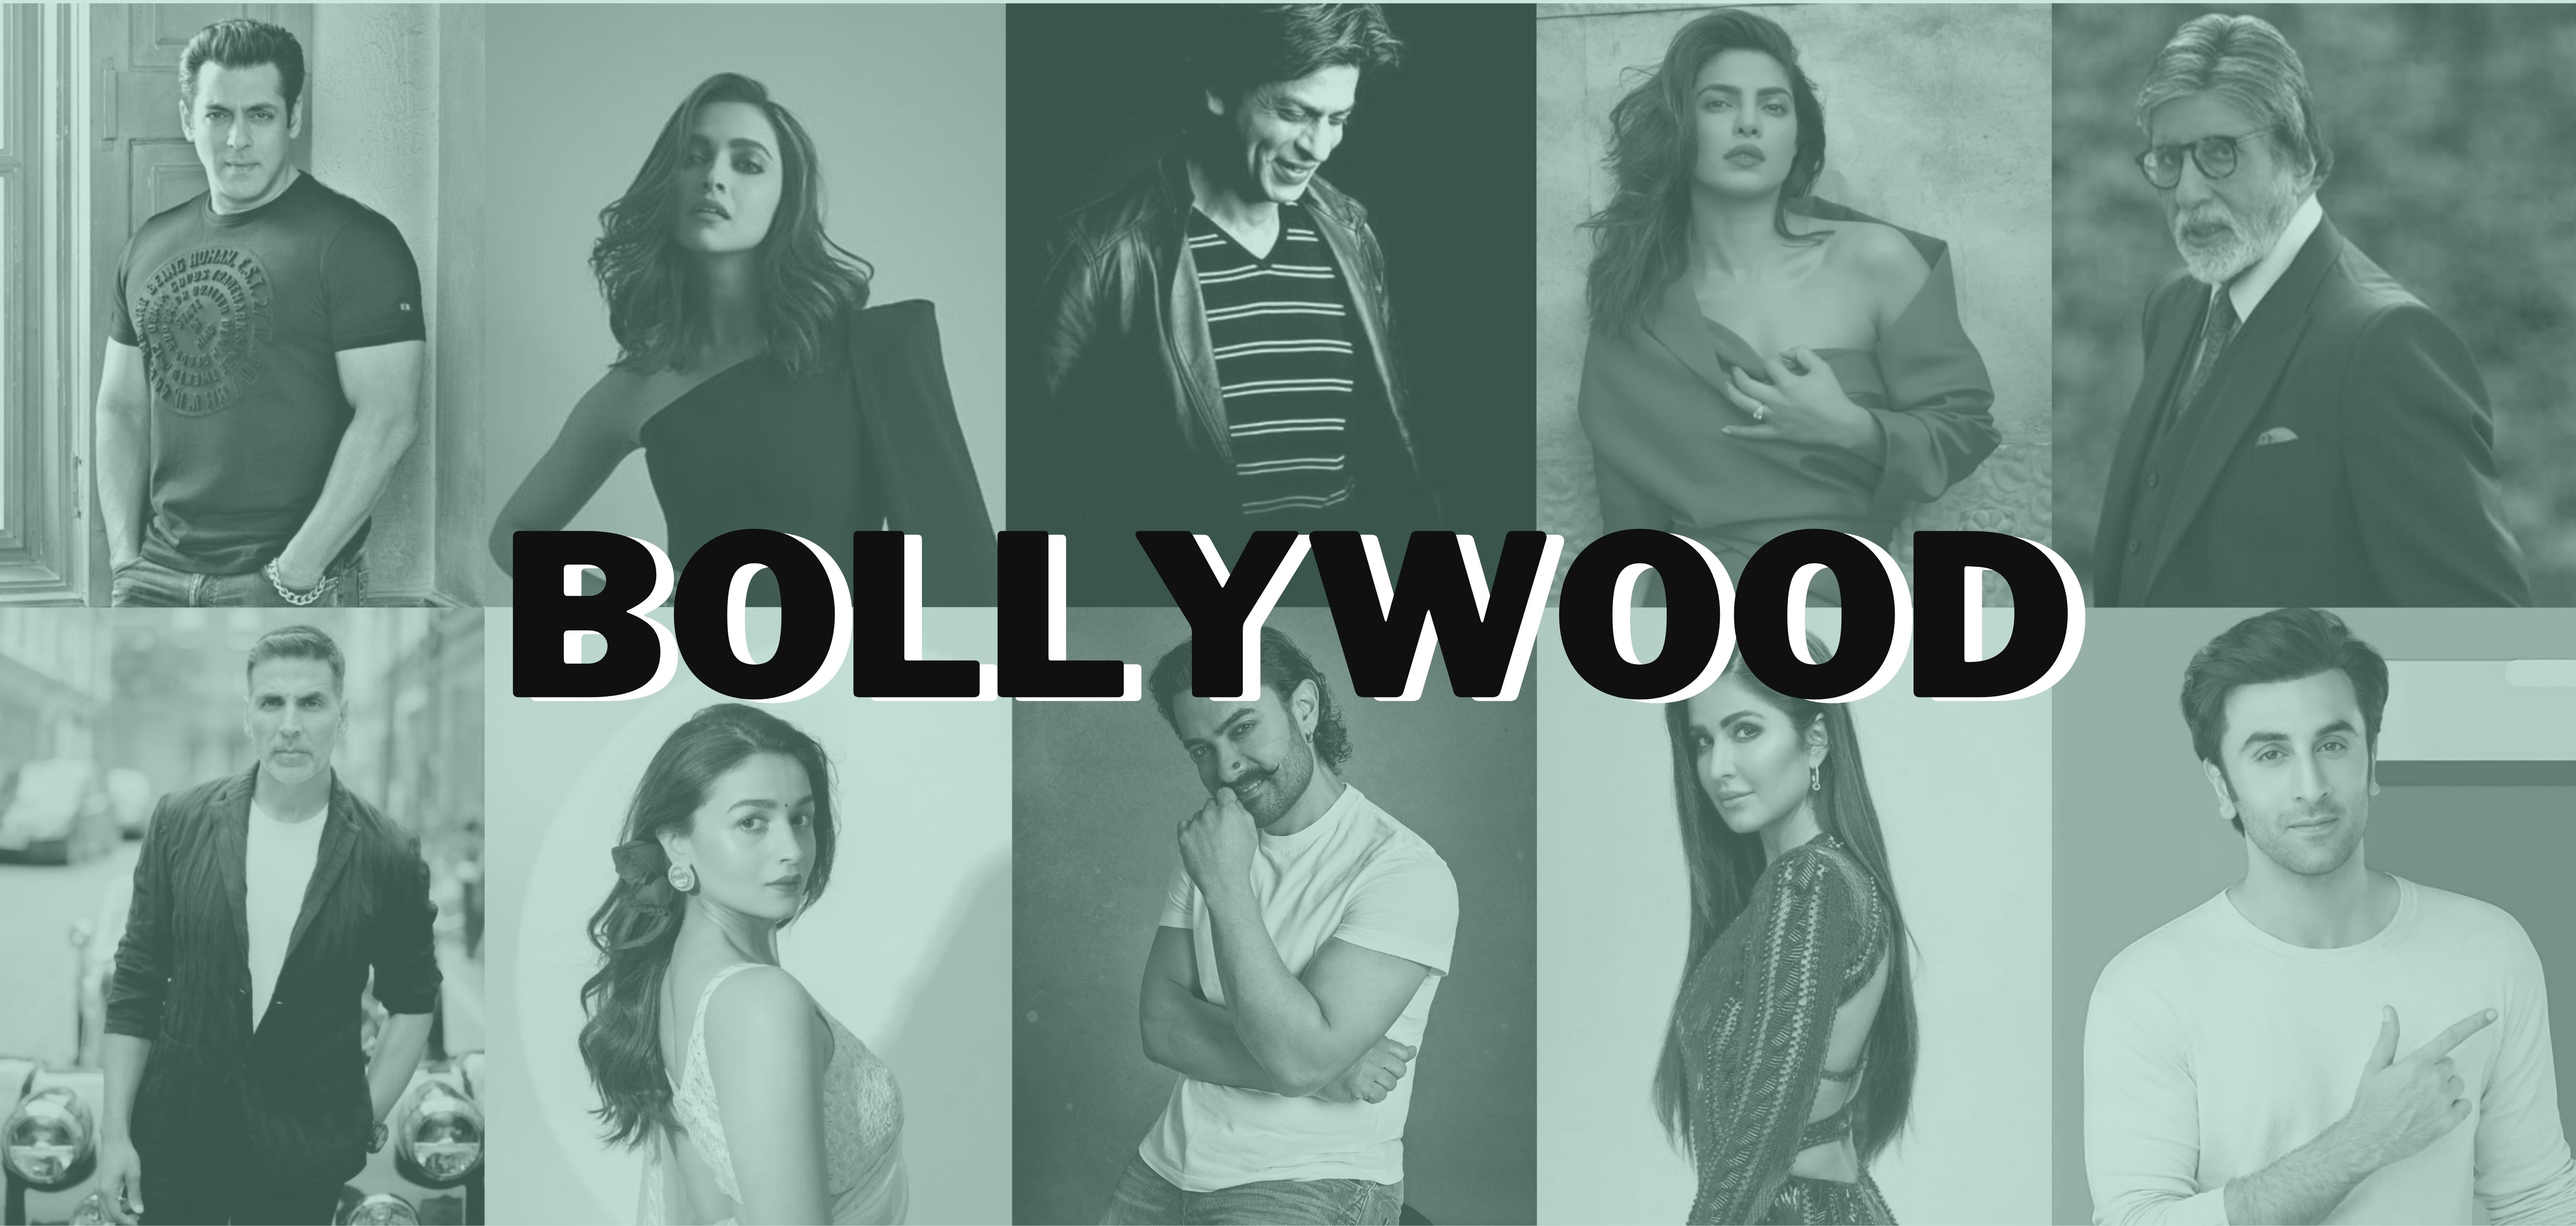
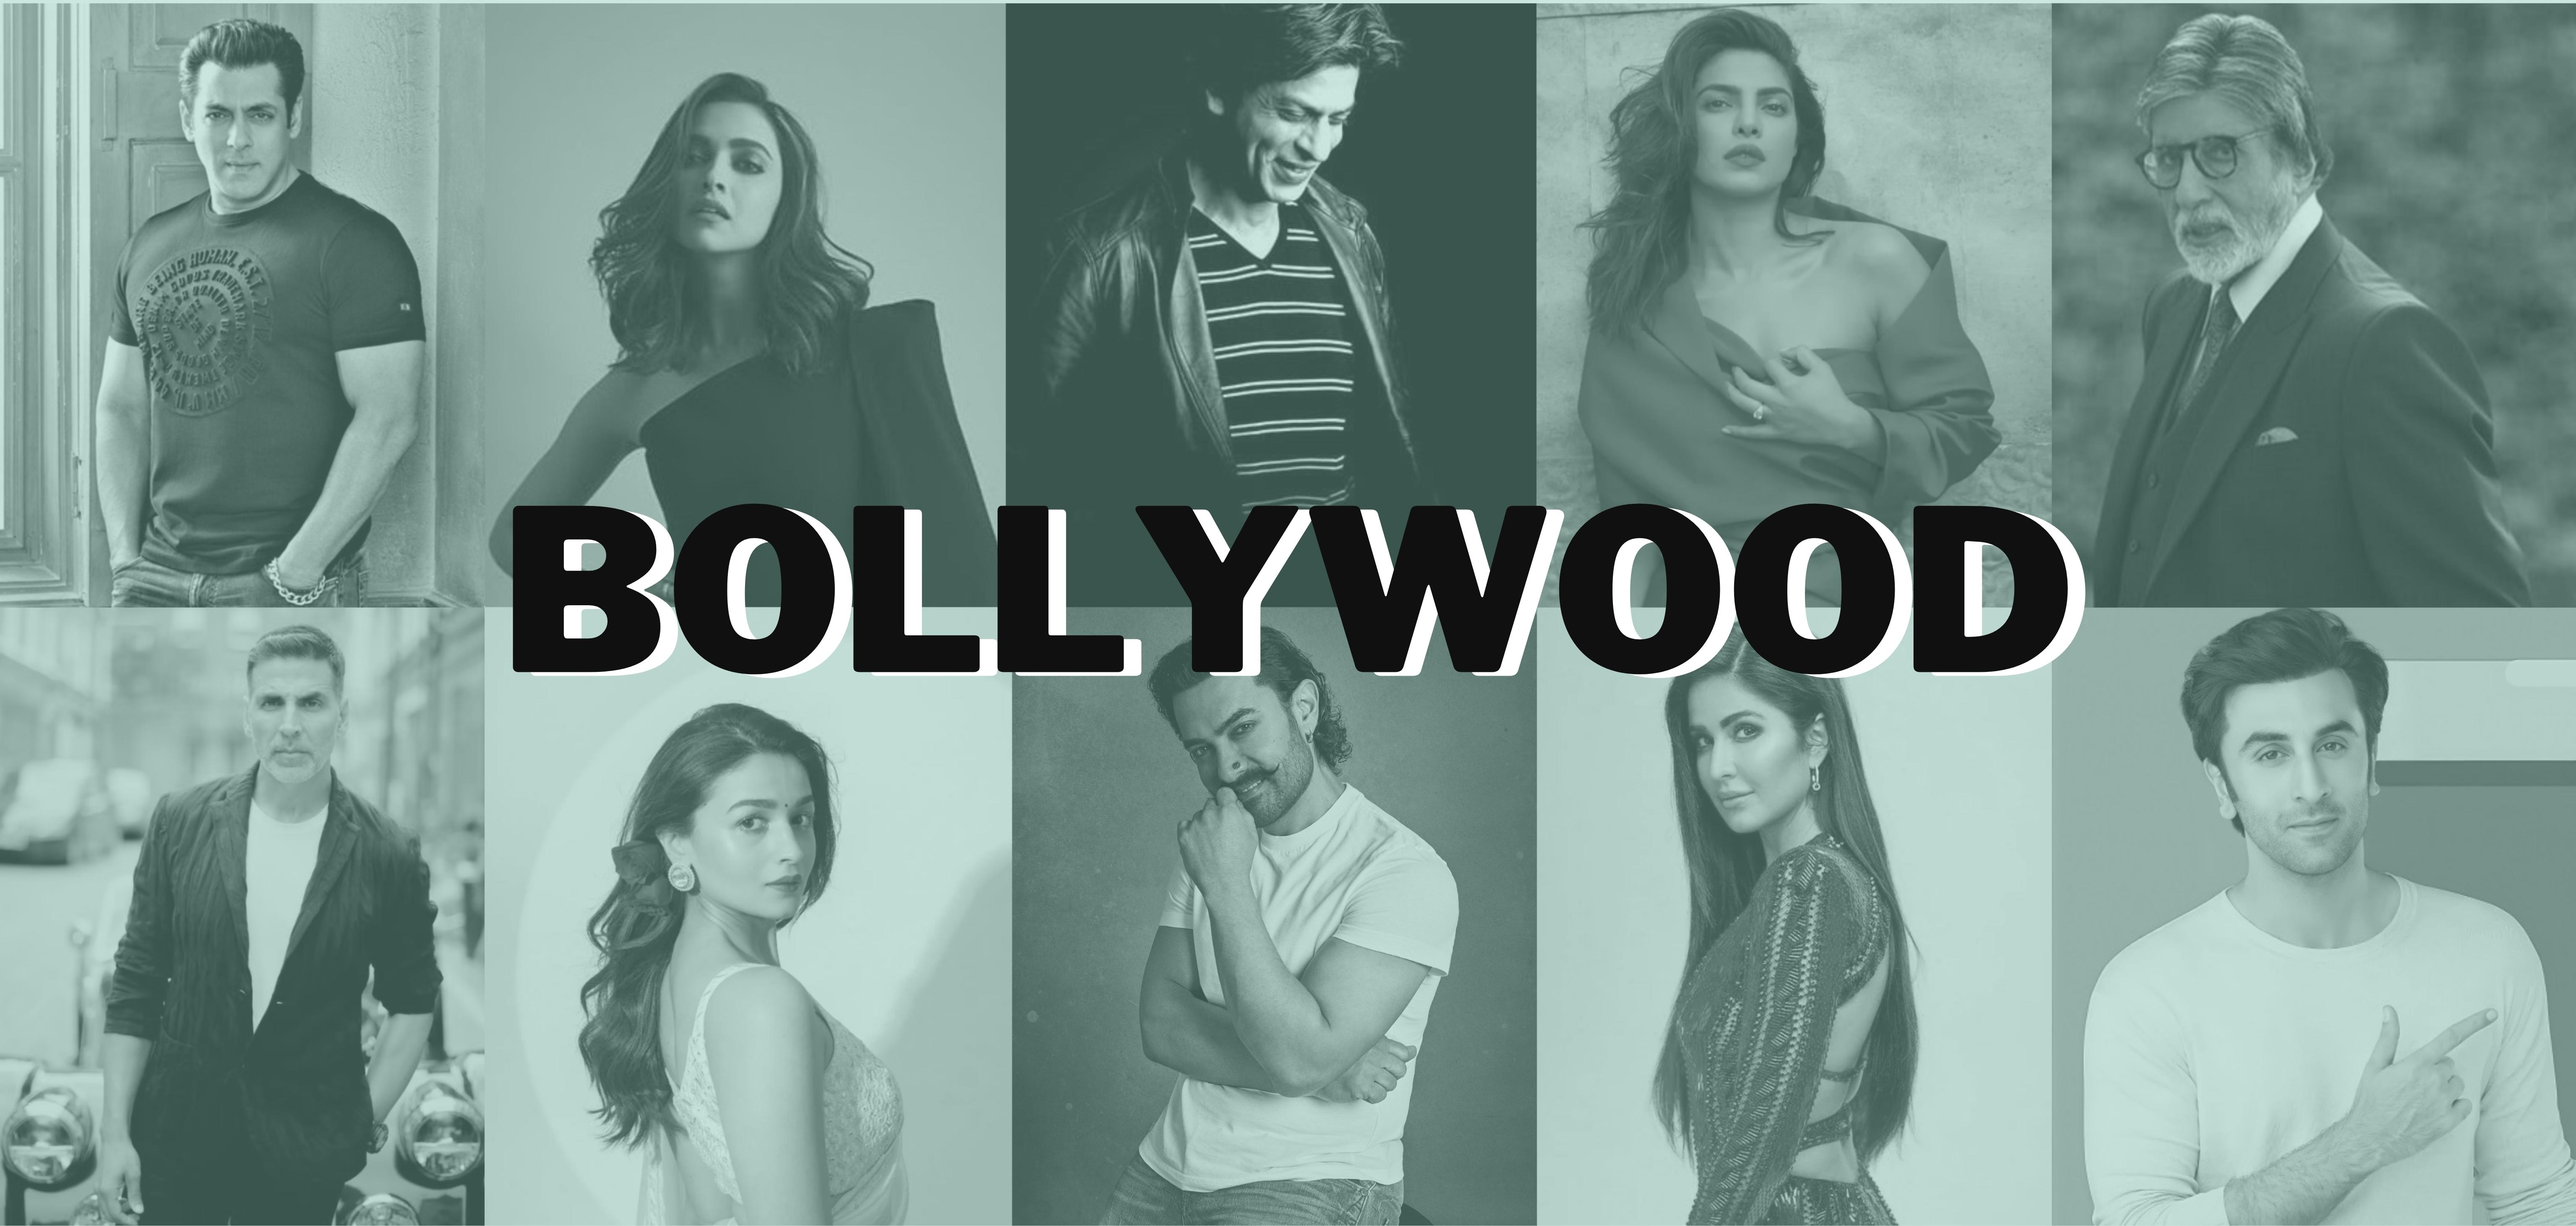
Homescreen - Card Images added

Changed region(s): [[0.1875, 0.4044, 0.8125, 0.5911]]

diff --git a/lib/screens/home_screen.dart b/lib/screens/home_screen.dart
@@ -124,64 +124,58 @@ class _HomeScreenState extends State<HomeScreen> {
                         child: Column(
                           //Industy wise catogries added here
                           children: [
+                            //Lollywood
                             Container(
                               height: 200.0,
                               decoration: BoxDecoration(
                                 color: bgColor,
                                 borderRadius: BorderRadius.circular(16),
-                                image: DecorationImage(
+                                image: const DecorationImage(
+                                    image: AssetImage(
+                                        "assets/images/Lollywood.jpg"),
+                                    fit: BoxFit.cover),
+                              ),
+                            ),
+                            const SizedBox(height: 10),
+
+                            //Bollywood
+                            Container(
+                              height: 200.0,
+                              decoration: BoxDecoration(
+                                color: bgColor,
+                                borderRadius: BorderRadius.circular(16),
+                                image: const DecorationImage(
                                     image: AssetImage(
                                         "assets/images/Bollywood.jpg"),
                                     fit: BoxFit.cover),
                               ),
+                            ),
+                            const SizedBox(height: 10),
 
-                              // child: const Center(
-                              //   child: Text(
-                              //     "Lollywood",
-                              //     style: TextStyle(fontSize: 35),
-                              //   ),
-                              // ),
-                            ),
-                            const SizedBox(height: 10),
+                            //Hollywood
                             Container(
                               height: 200.0,
                               decoration: BoxDecoration(
                                 color: bgColor,
                                 borderRadius: BorderRadius.circular(16),
-                              ),
-                              child: const Center(
-                                child: Text(
-                                  "Bollywood",
-                                  style: TextStyle(fontSize: 35),
-                                ),
+                                image: const DecorationImage(
+                                    image: AssetImage(
+                                        "assets/images/hollywood.jpg"),
+                                    fit: BoxFit.cover),
                               ),
                             ),
                             const SizedBox(height: 10),
+
+                            //K-Drama
                             Container(
                               height: 200.0,
                               decoration: BoxDecoration(
                                 color: bgColor,
                                 borderRadius: BorderRadius.circular(16),
-                              ),
-                              child: const Center(
-                                child: Text(
-                                  "Hollywood",
-                                  style: TextStyle(fontSize: 35),
-                                ),
-                              ),
-                            ),
-                            const SizedBox(height: 10),
-                            Container(
-                              height: 200.0,
-                              decoration: BoxDecoration(
-                                color: bgColor,
-                                borderRadius: BorderRadius.circular(16),
-                              ),
-                              child: const Center(
-                                child: Text(
-                                  "Kdrama",
-                                  style: TextStyle(fontSize: 35),
-                                ),
+                                image: const DecorationImage(
+                                    image: AssetImage(
+                                        "assets/images/Halyuwood.jpg"),
+                                    fit: BoxFit.cover),
                               ),
                             ),
                             const SizedBox(height: 10),
